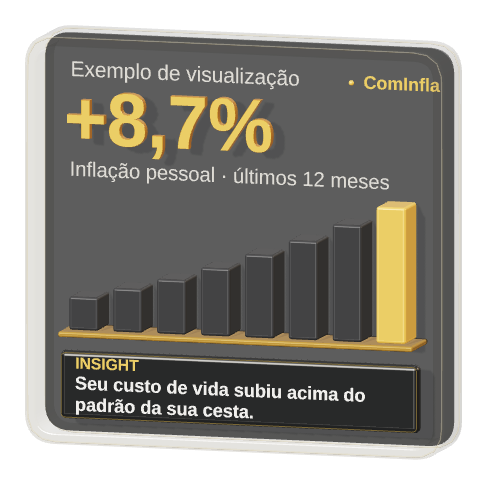
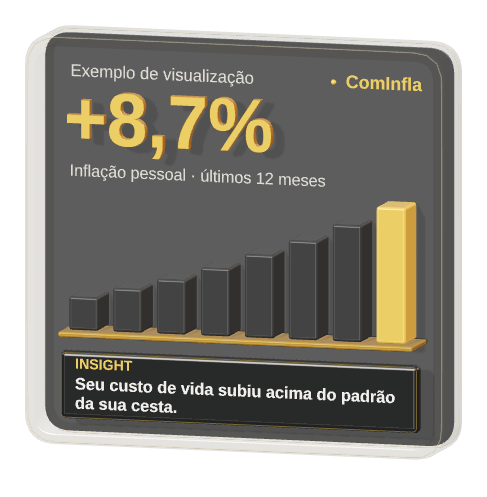
fix: autoplay landing animations and refine card typography

diff --git a/src/components/landing-glass-renderer.ts b/src/components/landing-glass-renderer.ts
@@ -9,7 +9,7 @@ import { glassBars, inflationValues, insightMessages } from './landing-glass-dat
 export interface GlassScene {
   setNumber(index: number): void
   setInsight(index: number): void
-  setActivity(active: boolean, reducedMotion: boolean): void
+  setActivity(active: boolean): void
   dispose(): void
 }
 
@@ -161,12 +161,12 @@ function modelScene(renderer: THREE.WebGLRenderer, canvas: HTMLCanvasElement, fo
     return mesh
   }
 
-  const kicker = label('Exemplo de visualização', .3, -2.95, 2.59, -.13, mutedText)
-  const brand = label('ComInfla', .255, 1.99, 2.59, -.13, gold)
+  const kicker = label('Exemplo de visualização', .24, -2.95, 2.59, -.13, mutedText)
+  const brand = label('ComInfla', .255, 1.69, 2.59, -.13, gold)
   const dot = new THREE.Mesh(geometry(new THREE.SphereGeometry(.045, 12, 8)), gold)
-  dot.position.set(1.79, 2.68, -.1)
+  dot.position.set(1.49, 2.68, -.1)
   box.add(dot)
-  const period = label('Inflação pessoal · últimos 12 meses', .29, -2.95, .96, -.08, mutedText)
+  const period = label('Inflação pessoal · últimos 12 meses', .232, -2.95, .96, -.08, mutedText)
 
   const numberBaseline = 1.52
   // Keep both moving values inside the percentage line, clear of its labels.
@@ -216,7 +216,7 @@ function modelScene(renderer: THREE.WebGLRenderer, canvas: HTMLCanvasElement, fo
   )), material(new THREE.LineBasicMaterial({ color: 0x8c753d, transparent: true, opacity: .7 })))
   plaqueOutline.position.set(0, -2.42, .278)
   box.add(plaqueOutline)
-  const insightTitle = label('INSIGHT', .22, -2.75, -2.14, .3, gold)
+  const insightTitle = label('INSIGHT', .198, -2.75, -2.14, .3, gold)
 
   const wrap = (value: string, size: number, maxWidth: number) => {
     const width = (word: string) => Array.from(word).reduce((sum, char) => sum + (font.data.glyphs[char]?.ha ?? 500), 0) * size / font.data.resolution
@@ -266,10 +266,9 @@ function modelScene(renderer: THREE.WebGLRenderer, canvas: HTMLCanvasElement, fo
     })
     insightGroups[insightIndex].visible = true
   }
-  buildInsights(.26)
+  buildInsights(.234)
 
   let active = false
-  let reducedMotion = false
   let disposed = false
   let frame = 0
   let lastFrame = 0
@@ -294,7 +293,7 @@ function modelScene(renderer: THREE.WebGLRenderer, canvas: HTMLCanvasElement, fo
   }
   const render = () => { if (!disposed) renderer.render(scene, camera) }
   const animate = (timestamp: number) => {
-    if (disposed || !active || reducedMotion) { frame = 0; return }
+    if (disposed || !active) { frame = 0; return }
     frame = window.requestAnimationFrame(animate)
     const delta = timestamp - lastFrame
     if (delta < 1000 / 30) return
@@ -349,7 +348,7 @@ function modelScene(renderer: THREE.WebGLRenderer, canvas: HTMLCanvasElement, fo
       brand.scale.setScalar(compact ? 1.18 : 1)
       period.scale.setScalar(compact ? 1.17 : 1)
       insightTitle.scale.setScalar(compact ? 1.2 : 1)
-      buildInsights(compact ? .305 : .26)
+      buildInsights(compact ? .2745 : .234)
     }
     camera.position.set(compact ? 5.1 : 7.5, compact ? 2.8 : 3.8, 18)
     camera.lookAt(0, -.1, 0)
@@ -372,7 +371,7 @@ function modelScene(renderer: THREE.WebGLRenderer, canvas: HTMLCanvasElement, fo
       settleNumber()
       const previous = numberIndex
       numberIndex = index
-      if (!active || reducedMotion) settleNumber()
+      if (!active) settleNumber()
       else {
         numberRoll = { from: previous, to: index, startedAt: performance.now() }
         numbers[index].position.y = numberBaseline - 1.3
@@ -386,7 +385,7 @@ function modelScene(renderer: THREE.WebGLRenderer, canvas: HTMLCanvasElement, fo
       settleInsight()
       const previous = insightIndex
       insightIndex = index
-      if (!active || reducedMotion) settleInsight()
+      if (!active) settleInsight()
       else {
         insightRoll = { from: previous, to: index, startedAt: performance.now() }
         insightGroups[index].position.y = -.85
@@ -394,26 +393,19 @@ function modelScene(renderer: THREE.WebGLRenderer, canvas: HTMLCanvasElement, fo
       }
       if (active) render()
     },
-    setActivity(nextActive, nextReducedMotion) {
+    setActivity(nextActive) {
       if (disposed) return
       active = nextActive
-      reducedMotion = nextReducedMotion
       window.cancelAnimationFrame(frame)
       frame = 0
-      if (!active || reducedMotion) {
+      if (!active) {
         settleNumber()
         settleInsight()
-      }
-      if (reducedMotion) {
-        bars.forEach((bar, index) => {
-          bar.scale.y = 1
-          bar.position.y = -1.5 + glassBars[index] / 2
-        })
       }
       if (active) {
         render()
         lastFrame = lastRender = performance.now()
-        if (!reducedMotion) frame = window.requestAnimationFrame(animate)
+        frame = window.requestAnimationFrame(animate)
       }
     },
     dispose() {

diff --git a/src/components/landing-glass-card.tsx b/src/components/landing-glass-card.tsx
@@ -13,15 +13,12 @@ const previewOptions = {
 }
 const { props: previewProps } = getImageProps({ ...previewOptions, src: previewDesktop })
 const { props: { srcSet: compactPreview } } = getImageProps({ ...previewOptions, src: previewCompact })
-const motionPreferenceKey = 'cominfla.hero.animations'
 
 export function LandingGlassCard() {
   const hostRef = useRef<HTMLDivElement>(null)
   const canvasRef = useRef<HTMLCanvasElement>(null)
-  const toggleMotionRef = useRef<(() => void) | null>(null)
   const [ready, setReady] = useState(false)
   const [failed, setFailed] = useState(false)
-  const [motionPaused, setMotionPaused] = useState(false)
   const [numberIndex, setNumberIndex] = useState(0)
   const [insightIndex, setInsightIndex] = useState(0)
 
@@ -31,32 +28,16 @@ export function LandingGlassCard() {
     if (!host || !canvas) return
 
     const abort = new AbortController()
-    const motion = window.matchMedia('(prefers-reduced-motion: reduce)')
     let scene: GlassScene | undefined
     let visible = false
     let loading = false
     let hasFailed = false
-    let motionOverride: boolean | null = null
-    try {
-      const saved = window.localStorage.getItem(motionPreferenceKey)
-      if (saved === 'on' || saved === 'off') motionOverride = saved === 'on'
-    } catch {
-      // Private browsing can make preference storage unavailable.
-    }
     let currentNumber = 0
     let currentInsight = 0
     const active = () => visible && document.visibilityState === 'visible'
-    const playing = () => motionOverride ?? !motion.matches
     const updateActivity = () => {
       host.dataset.active = String(active())
-      const paused = !playing()
-      setMotionPaused(paused)
-      scene?.setActivity(active(), paused)
-    }
-    toggleMotionRef.current = () => {
-      motionOverride = !playing()
-      try { window.localStorage.setItem(motionPreferenceKey, motionOverride ? 'on' : 'off') } catch { /* Playback still works without storage. */ }
-      updateActivity()
+      scene?.setActivity(active())
     }
     const fallback = () => {
       scene?.dispose()
@@ -92,17 +73,16 @@ export function LandingGlassCard() {
     })
     observer.observe(host)
     document.addEventListener('visibilitychange', updateActivity)
-    motion.addEventListener('change', updateActivity)
     updateActivity()
 
     const numberTimer = window.setInterval(() => {
-      if (!active() || (!scene && !hasFailed) || motionOverride === false) return
+      if (!active() || (!scene && !hasFailed)) return
       currentNumber = (currentNumber + 1) % inflationValues.length
       setNumberIndex(currentNumber)
       scene?.setNumber(currentNumber)
     }, 3000)
     const insightTimer = window.setInterval(() => {
-      if (!active() || (!scene && !hasFailed) || motionOverride === false) return
+      if (!active() || (!scene && !hasFailed)) return
       currentInsight = (currentInsight + 1) % insightMessages.length
       setInsightIndex(currentInsight)
       scene?.setInsight(currentInsight)
@@ -112,10 +92,8 @@ export function LandingGlassCard() {
       abort.abort()
       observer.disconnect()
       document.removeEventListener('visibilitychange', updateActivity)
-      motion.removeEventListener('change', updateActivity)
       window.clearInterval(numberTimer)
       window.clearInterval(insightTimer)
-      toggleMotionRef.current = null
       scene?.dispose()
     }
   }, [])
@@ -144,20 +122,6 @@ export function LandingGlassCard() {
           <strong aria-live="polite">{insightMessages[insightIndex]}</strong>
         </div>
       </div>
-      {ready && (
-        <button
-          type="button"
-          className="hero-glass-motion-toggle"
-          onClick={() => toggleMotionRef.current?.()}
-          aria-pressed={!motionPaused}
-          aria-label={motionPaused ? 'Ativar animações da visualização' : 'Pausar animações da visualização'}
-        >
-          <svg viewBox="0 0 16 16" width="12" height="12" fill="currentColor" aria-hidden="true">
-            {motionPaused ? <path d="M4 2.5 13 8l-9 5.5z" /> : <path d="M4 3h3v10H4zm5 0h3v10H9z" />}
-          </svg>
-          <span>{motionPaused ? 'Animar' : 'Pausar'}</span>
-        </button>
-      )}
     </div>
   )
 }

diff --git a/src/app/landing-glass.css b/src/app/landing-glass.css
@@ -34,27 +34,11 @@
 .hero-glass-scene[data-fallback='true'] .hero-glass-preview { visibility: hidden; }
 .hero-glass-scene[data-ready='true'] .hero-glass-canvas { opacity: 1; }
 .hero-glass-fallback { position: absolute; inset: 6% 3%; }
-.hero-glass-fallback .hero-card-insight strong { font-size: 12px; }
-
-.hero-glass-motion-toggle {
-  position: absolute;
-  right: 6%;
-  bottom: -12px;
-  display: inline-flex;
-  align-items: center;
-  gap: 5px;
-  min-height: 28px;
-  padding: 4px 9px;
-  border: 1px solid rgba(214,169,79,.16);
-  border-radius: 999px;
-  background: rgba(10,10,11,.7);
-  color: var(--muted);
-  font-size: 11px;
-  z-index: 1;
-}
-.hero-glass-motion-toggle:hover,
-.hero-glass-motion-toggle[aria-pressed='false'] { color: var(--gold-light); }
-.hero-glass-motion-toggle:focus-visible { outline: 2px solid var(--gold); outline-offset: 3px; }
+.hero-glass-fallback .card-kicker { font-size: .8em; }
+.hero-glass-fallback > .muted { font-size: 12.8px; }
+.hero-glass-fallback .live-dot { margin-right: 12px; }
+.hero-glass-fallback .hero-card-insight span { font-size: 9px; }
+.hero-glass-fallback .hero-card-insight strong { font-size: 10.8px; }
 
 /* Keep the live content available to assistive technology after the scene loads. */
 .hero-glass-accessible {
@@ -76,13 +60,9 @@
   .hero-glass-fallback .hero-card-topline { font-size: 12px; gap: 8px; }
   .hero-glass-fallback .live-dot { font-size: 11px; }
   .hero-glass-fallback .hero-number { font-size: 42px; margin: 12px 0 4px; }
-  .hero-glass-fallback .muted { font-size: 12px; }
+  .hero-glass-fallback > .muted { font-size: 9.6px; }
   .hero-glass-fallback .bar-chart { min-height: 52px; height: 90px; flex: 1; margin-top: 18px; gap: 12px; }
   .hero-glass-fallback .hero-card-insight { padding: 10px; margin-top: 12px; }
-  .hero-glass-fallback .hero-card-insight strong { font-size: 10.5px; }
+  .hero-glass-fallback .hero-card-insight strong { font-size: 9.45px; }
   .hero-glass-accessible { padding: 0; }
-}
-
-@media (prefers-reduced-motion: reduce) {
-  .hero-glass-scene .bar-chart span { animation: none !important; }
 }
